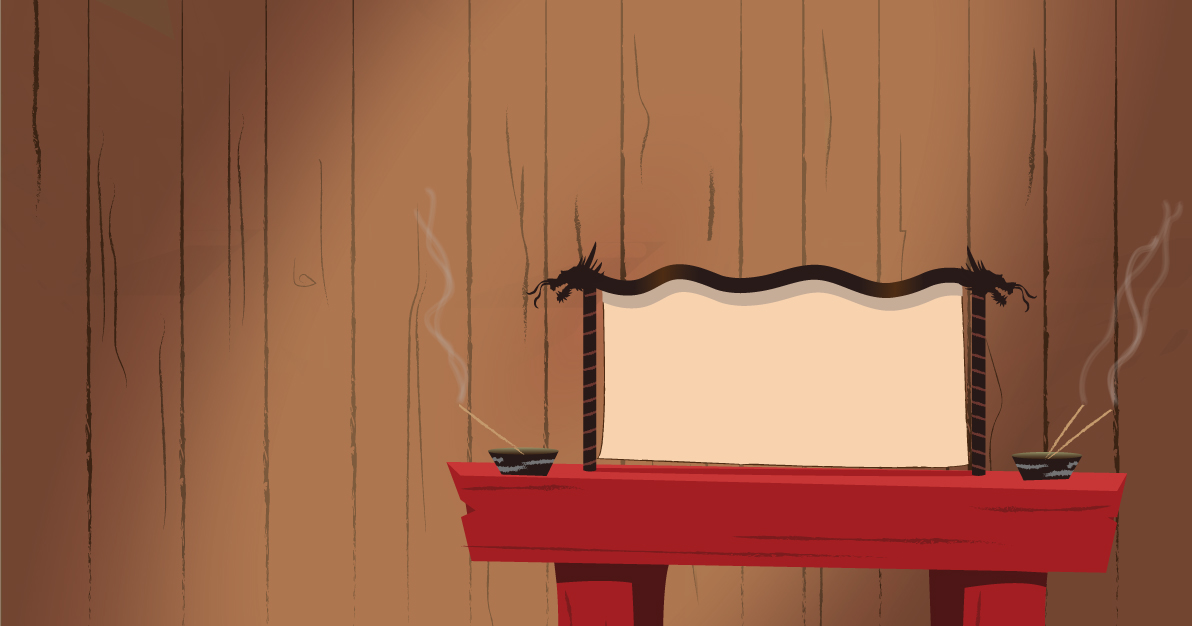
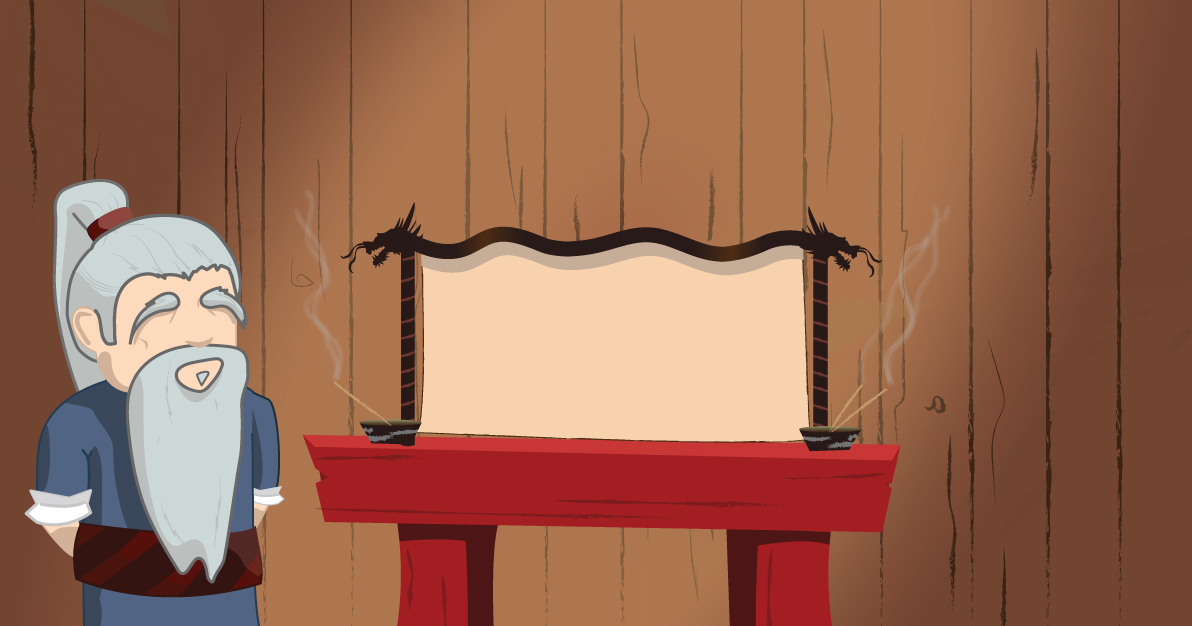
Added some new images for mtm.  Tweaked js a little for gameplay

diff --git a/public/js/musicTheoryMaster.js b/public/js/musicTheoryMaster.js
@@ -1,6 +1,6 @@
 var leaderboardVersions = ["nearMe","topScorers"];
 var currLeaderboardVersion;
-var pointsAvailable = 10;
+var pointsAvailable = 5;
 var gameTimer;
 
 var awesomeArray = [{question: "How many sharps in the key of C Major?", answers: [{answer: 0, correct: true},{answer: 1,correct: false},{answer: 2,correct: false},{answer: 3,correct: false}]},
@@ -80,19 +80,21 @@ $(function(){
       } 
     });// end map
     $('.mtmAnswerButton').click(function(e){ // click handler
-      if(e.target.id === "c"){
-        var u = $('#u').text();
-        var n = $('#n').text();
-        if (u === ""){
+      var u = $('#u').text();
+      if (u === ""){
           alert('You have to be signed up and logged in to play this game.  This way we can keep track of your score!');
           return $("#loginModal").modal("show");
-        }
+      }
+      if(e.target.id === "c"){
+        var n = $('#n').text();
         $('#mtmGuessFeedback').text("Correct! +" + pointsAvailable).fadeIn(500);
+        $('#mtmGuessFeedback').fadeOut(2000);
         Parse.Cloud.run("add",{amount:pointsAvailable,u: u,currApp: "mtm"}).then(function(results){
           GAME.findLeaders("mtm",currLeaderboardVersion);
-          getNew();
-          $('#mtmGuessFeedback').fadeOut(2000);
-          resetTimer();
+          setTimeout(function(){
+            getNew();
+            resetTimer();
+          },1000);
 //          $('#mtmPointsAvailableText').fadeIn(1000);
         },function(error){
           resetTimer();
@@ -102,14 +104,14 @@ $(function(){
       }else{
         var ans = $("#c").text();
         $('#mtmGuessFeedback').text("Incorrect. The answer is " + ans).fadeIn(500);
+        $('#mtmGuessFeedback').fadeOut(3000);
         setTimeout(function(){
           GAME.findLeaders("mtm",currLeaderboardVersion);
           getNew();
           resetTimer();
-          $('#gcgPointsAvailableText').fadeIn(200);
 //          $('#mtmPointsAvailableText').fadeIn(1000);
-          $('#mtmGuessFeedback').fadeOut(2000);
-        },1000);
+          
+        },2000);
       }
     });// end click handler
 }// end getNew

diff --git a/public/styles/musicTheoryMaster.css b/public/styles/musicTheoryMaster.css
@@ -8,6 +8,13 @@ div#mtmMain {
   background-position:center;
 }
 
+#mtmQuestionScreen{
+  padding-top: 100px;
+  max-width: 280px;
+  padding-left: 10px;
+  margin: 0 auto;
+}
+
 h2#mtmQuestion {
   margin-bottom: 20px;
 }
@@ -70,3 +77,22 @@ h2#mtmQuestion {
 #mtmLeaderboard td.scoreTd{
   padding-left: 15px;
 }
+
+/* Smartphones (portrait) ----------- */
+@media only screen 
+and (max-width : 572px) {
+  #mtmQuestionScreen{
+    padding-top: 170px;
+  }
+  .mtmAnswerButton {
+    margin: 4px;
+    width: 80px;
+    height: 50px;
+    padding: 10px;
+  }
+  .mtmAnswerButton:active{
+    height: 38px;
+  }
+
+  
+}/* end media query */
